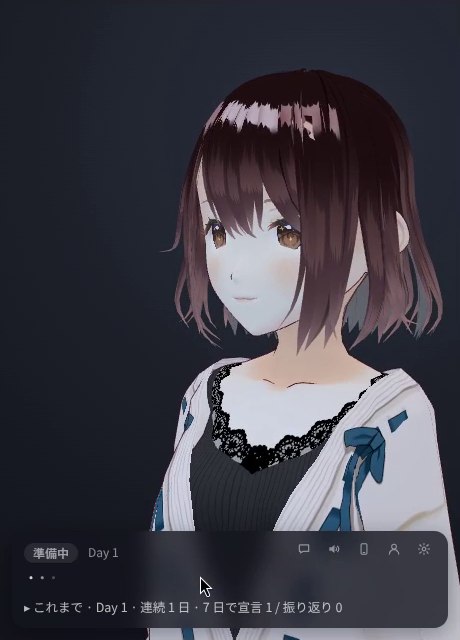
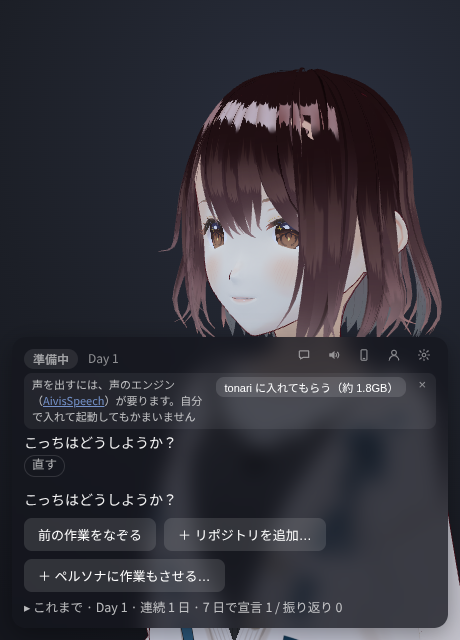
紹介ページを 0.8.0 に合わせる

Changed region(s): [[0.0304, 0.1562, 1.0, 0.9375], [0.8826, 0.2812, 0.913, 0.3125], [0.6087, 0.2812, 0.6391, 0.3125]]

diff --git a/index.html b/index.html
@@ -4,7 +4,7 @@
 <meta charset="utf-8">
 <meta name="viewport" content="width=device-width, initial-scale=1">
 <title>tonari - 隣の席で AI が作業する集中アプリ</title>
-<meta name="description" content="隣の席で AI が作業している、集中のためのデスクトップアプリ。画面の隅でペルソナが自分の作業をし、25 分ごとに「そっちどう？」と声をかけます。14 日間無料、その後は月額 800 円。macOS・Windows・Linux。画面もキー入力も見ません。">
+<meta name="description" content="隣の席で AI が作業している、集中のためのデスクトップアプリ。画面の隅でペルソナが自分の作業をし、休憩はあなたのタイミングで取れます。14 日間無料、その後は月額 800 円。macOS・Windows・Linux。画面もキー入力も見ません。">
 <meta property="og:title" content="tonari">
 <meta property="og:site_name" content="tonari">
 <meta property="og:locale" content="ja_JP">
@@ -37,7 +37,7 @@
 <section class="hero" aria-labelledby="hero-title">
   <div class="hero-text">
     <h1 id="hero-title"><span class="nw">隣の席で AI が作業している、</span><br><span class="nw">集中のための</span><span class="nw">デスクトップアプリ。</span></h1>
-    <p class="lead">一人だと手が止まりがちな人のためのアプリです。画面の隅で AI のキャラクター（ペルソナ）が自分のプロジェクトを進め、ときどき独り言を言います。その隣で自分の作業をして、25 分たつと休憩。「そっちどう？」と声がかかります。</p>
+    <p class="lead">一人だと手が止まりがちな人のためのアプリです。画面の隅で AI のキャラクター（ペルソナ）が自分のプロジェクトを進め、ときどき独り言を言います。その隣で自分の作業をして、休みたくなったら休憩。そのあいだはペルソナも手を止めます。</p>
     <p class="facts">入れるのは無料で、14 日間はそのまま試せます。続けて使うなら月額 800 円。アカウントは要りません。プログラマでなくても使えます。macOS（Apple シリコン）・Windows・Linux。画面もキー入力も見ません。</p>
     <div class="dl" id="dl">
       <a class="btn btn-primary" id="dl-main" href="#install">ダウンロード</a>
@@ -61,19 +61,19 @@
   <ol class="steps">
     <li>
       <h3>宣言する</h3>
-      <p>「そっちは今日なにやる？」に、今日やることを一言で答えます。</p>
+      <p>「そっちは今日なにやる？」に、今日やることを一言で答えます。作業時間（決めない・30 分〜2 時間）も選べます。</p>
     </li>
     <li>
       <h3>隣で作業が始まる</h3>
       <p>ペルソナが自分の作業を始めます。こちらも自分の作業をします。ペルソナは読んだり書いたり試したりしながら、ときどき独り言を言います。</p>
     </li>
     <li>
-      <h3>区切りで休憩</h3>
-      <p>25 分で休憩に入ります。休憩中は、入力欄からペルソナと短く話せます。休憩が終わると、また作業に戻ります。長さは設定で変えられます。</p>
+      <h3>好きなときに休憩</h3>
+      <p>休みたくなったら「休憩する」を押します。ペルソナも手を止め、入力欄から短く話せます。「再開する」か、席を離れて戻ってくると作業に戻ります。25 分ごとに決まった長さで休みたいなら、始めるときにポモドーロを選びます。</p>
     </li>
     <li>
-      <h3>振り返る</h3>
-      <p>終わるときに「どこまでいった？」と聞かれます。宣言どおりに進んだかと、集中の度合いをボタンで答えます。窓の × で終えるときも、締めの一言のあとに終わりの画面が出ます。「閉じる」でアプリを終了します。</p>
+      <h3>振り返って、少し雑談</h3>
+      <p>作業時間が来るか「ここで終わる」を押すと、「どこまでいった？」と聞かれます。宣言どおりに進んだかと、集中の度合いをボタンで答えます。そのあとは雑談の時間で、「おしまい」を押すまでペルソナと話せます。窓の × で終えるときも、締めの一言のあとに終わりの画面が出ます。「閉じる」でアプリを終了します。</p>
     </li>
   </ol>
 </section>
@@ -89,8 +89,8 @@
         <dd>ペルソナが自分の作業場所で、自分のアプリを毎日少しずつ作ります。最初は読書記録アプリ「ほんだな」です。</dd>
       </div>
       <div>
-        <dt>録画を流す</dt>
-        <dd>前にした作業の記録（出来事とその間隔）を、そのとおりに流します。作業の分の AI は動かないので、費用は独り言の分だけです。独り言は前にしたこととして話し、聞かれれば記録の再生だと答えます。新しく作ったペルソナには作り手が前に収録した「ほんだな」の録画が入っていて、AI を入れなくても初日から流せます。</dd>
+        <dt>前の作業をなぞる</dt>
+        <dd>前にした作業の記録（出来事とその間隔）を、そのとおりになぞります。作業の分の AI は動かないので、費用は独り言の分だけです。独り言は前にしたこととして話し、聞かれれば記録の再生だと答えます。新しく作ったペルソナには作り手が前に収録した「ほんだな」の録画が入っていて、AI を入れなくても初日からなぞれます。</dd>
       </div>
       <div>
         <dt>見守る</dt>
@@ -103,7 +103,7 @@
     </dl>
   </div>
   <figure class="work-shot">
-    <img src="images/choose-work.png" width="460" height="640" alt="作業を選ぶ画面。ペルソナが「こっちはどうしようか？」と聞き、「自分のプロジェクト（ほんだな）を進める」「録画を流す」「リポジトリを追加」のボタンが並ぶ" loading="lazy">
+    <img src="images/choose-work.png" width="460" height="640" alt="作業を選ぶ画面。ペルソナが「こっちはどうしようか？」と聞き、「前の作業をなぞる」「＋ リポジトリを追加…」「＋ ペルソナに作業もさせる…」のボタンが並ぶ" loading="lazy">
   </figure>
 </section>
 
@@ -111,11 +111,12 @@
   <h2 id="needs-title">用意するものと費用</h2>
   <ul class="needs">
     <li><strong>月額プラン（14 日間は無料）。</strong>独り言と休憩の会話は tonari のサーバーで作ります。PC で初めて使った日から 14 日間は無料で、カードの登録も要りません。続けて使うなら月額 800 円（税込）で、tonari のパネルか設定の「続けて使う」から申し込みます。申し込まなくても、録画の再生と見守りはそのまま使え、独り言は決まった文になります。1 つの申し込みで PC 2 台まで使えます。解約はいつでもでき、払った期間の終わりまで使えます（<a href="tokushoho.html">特定商取引法に基づく表記</a>・<a href="terms.html">利用規約</a>）。</li>
-    <li><strong>考えるのに使う AI（任意）。</strong>入れなくても始められます。そのときは、独り言と休憩の会話を tonari のサーバーで作り（上の月額プラン）、ペルソナの作業は「録画を流す」か「見守る」になります。ペルソナに本当に作業もさせるなら、どちらかを入れます。
+    <li><strong>考えるのに使う AI（任意）。</strong>入れなくても始められます。そのときは、独り言と休憩の会話を tonari のサーバーで作り（上の月額プラン）、ペルソナの作業は「前の作業をなぞる」か「見守る」になります。ペルソナに本当に作業もさせるなら、作業の選択の「＋ ペルソナに作業もさせる…」から、どちらかを選びます。
       <ul class="needs-sub">
-        <li><strong>OpenCode。</strong>パネルの案内か、設定（歯車）の「作業に使う AI」で「tonari に入れてもらう」を押すと、tonari が <a href="https://opencode.ai/">OpenCode</a> を入れます（約 60MB）。無料のモデルがあります。無料のモデルは期間限定で、送った内容が提供元の学習に使われるものがあります。</li>
-        <li><strong>Anthropic の API キー。</strong>Claude を使います。独り言とペルソナの作業の分だけ、API の利用料を Anthropic に払います。目安は 2026 年 10 月の作者の手元の例で、独り言が 1 区切り（25 分）で数円、ペルソナが本当に自分のプロジェクトを進める分が 1 区切り数百円から千円ほどでした。モデルと作業量で大きく変わります。「見守る」は独り言の分だけです。設定の手順は <a href="https://github.com/cxxxr/tonari-releases#readme">README</a> にあります。</li>
+        <li><strong>OpenCode。</strong>設定（歯車）の「作業に使う AI」で「tonari に入れてもらう」を押すと、tonari が <a href="https://opencode.ai/">OpenCode</a> を入れます（約 60MB）。無料のモデルがあります。無料のモデルは期間限定で、送った内容が提供元の学習に使われるものがあります。</li>
+        <li><strong>Codex。</strong><a href="https://developers.openai.com/codex/cli/">Codex CLI</a> を入れて <code>codex login</code> しておき、「作業に使う AI」で選びます。使うのはその Codex の利用枠か API の費用です。</li>
       </ul>
+      独り言と休憩の会話を Anthropic の API キーで作ることもできます。使った分の API の利用料を Anthropic に払います（目安は 2026 年 10 月の作者の手元の例で、1 区切り（25 分）数円）。設定の手順は <a href="https://github.com/cxxxr/tonari-releases#readme">README</a> にあります。
     </li>
     <li><strong>声（任意）。</strong>ペルソナは <a href="https://aivis-project.com/">AivisSpeech</a> の声で話します。初めて起動したときの「はじめに、声の準備」で「声を入れる」を押すと、tonari が入れます（約 1.8GB）。入れなければ字幕だけになります。</li>
     <li><strong>Node.js。</strong>ペルソナが自分のプロジェクトで使います。初めて始めるときに tonari が落とします（約 50MB。自分で入れている Node.js とは別に置きます）。</li>
@@ -148,7 +149,7 @@
   <p>隣にいるためのアプリなので、あなたを見張るものにはしていません。</p>
   <ul class="rules">
     <li>画面の内容もキー入力の中身も見ません。カメラもマイクも使いません。あなたの様子として使うのは「最後に入力してから何秒たったか」だけです。</li>
-    <li>AI に送るのは、あなたが書いた今日の宣言と休憩中の返事、そしてペルソナ自身の作業の出来事（読んだファイルの名前や結果の要約）です。あなたの画面とキー入力は送りません。「手伝う」を選んだときは、任せたリポジトリの複製のファイルを AI が読むので、その中身も AI の提供元に送られます。「見守る」では、Claude が書いたコミットの件名とブランチ名を送ります。OpenCode も API キーも使わないときは、今日の宣言と休憩中の返事、ペルソナの作業の出来事を tonari のサーバーに送ります。サーバーはそれを AI の提供元（AWS の Bedrock）に渡し、独り言と休憩の会話を作ります。</li>
+    <li>AI に送るのは、あなたが書いた今日の宣言と、休憩中と雑談での返事、あなたの名前と呼び方、そしてペルソナ自身の作業の出来事（読んだファイルの名前や結果の要約）です。あなたの画面とキー入力は送りません。「手伝う」を選んだときは、任せたリポジトリの複製のファイルを AI が読むので、その中身も AI の提供元に送られます。「見守る」では、Claude が書いたコミットの件名とブランチ名を送ります。OpenCode も API キーも使わないとき（Codex を使うときも）は、独り言と会話の材料（今日の宣言、休憩中と雑談での返事、名前と呼び方、ペルソナの作業の出来事）を tonari のサーバーに送ります。サーバーはそれを AI の提供元（AWS の Bedrock）に渡し、独り言と休憩の会話を作ります。</li>
     <li>ペルソナが書き込むのは自分の作業場所だけです。打つコマンドは中身を見て止めていますが、すべては防げません。</li>
     <li>起動したときに 1 日 1 回、新しい版があるかを GitHub に聞きます。あなたを見分けるものは送りません。設定のファイル（<code>user.yaml</code>）で切れます。</li>
     <li>記録（宣言、集中の度合い、独り言）はあなたの PC の中にだけ残ります。tonari のサーバーは、送られた本文と IP アドレスを残しません。残すのは、サーバーが発行する無記名のトークン（のハッシュ）、日ごとの回数、送信元を見分けるために IP アドレスから作った値です。月額プランを申し込んだ人については、それに加えて、トークン（のハッシュ）と Stripe の申し込みの番号・顧客の番号・状態を結んで残します。名前・メールアドレス・カードの情報は Stripe が持ち、tonari のサーバーには残しません。</li>
@@ -169,7 +170,7 @@
     </div>
     <div>
       <dt>何がどこに送られますか？</dt>
-      <dd>上の<a href="#privacy">「見ないもの、送らないもの」</a>のとおりです。送り先は、選んだ AI の提供元（Anthropic か、OpenCode で選んだモデルの提供元）です。AI を入れていないときは tonari のサーバーで、サーバーから AWS の Bedrock に渡ります。月額プランの支払いは Stripe が受けます。ほかに、新しい版があるかを GitHub に 1 日 1 回聞きます。</dd>
+      <dd>上の<a href="#privacy">「見ないもの、送らないもの」</a>のとおりです。送り先は、選んだ AI の提供元（Anthropic か、OpenCode で選んだモデルの提供元か、Codex の OpenAI）です。OpenCode も API キーも使わないとき（Codex を使うときも）は、独り言と会話を tonari のサーバーで作り、サーバーから AWS の Bedrock に渡ります。月額プランの支払いは Stripe が受けます。ほかに、新しい版があるかを GitHub に 1 日 1 回聞きます。</dd>
     </div>
     <div>
       <dt>ペルソナは本当に AI ですか？</dt>
@@ -177,7 +178,7 @@
     </div>
     <div>
       <dt>オフラインで動きますか？</dt>
-      <dd>いいえ。独り言に、AI の提供元か tonari のサーバーへの通信が要ります（届かないときは決まった文で代わりに話します）。ペルソナの作業も、録画を流すとき以外は AI の提供元への通信が要ります。声の合成だけは手元の PC で行います。</dd>
+      <dd>いいえ。独り言に、AI の提供元か tonari のサーバーへの通信が要ります（届かないときは決まった文で代わりに話します）。ペルソナの作業も、前の作業をなぞるとき以外は AI の提供元への通信が要ります。声の合成だけは手元の PC で行います。</dd>
     </div>
     <div>
       <dt>ペルソナが自分のファイルを触ることはありますか？</dt>
@@ -199,7 +200,7 @@
 <footer class="foot">
   <dl class="meta">
     <div><dt>作者</dt><dd><a href="https://github.com/cxxxr">cxxxr</a>。一人の部屋だと手が止まるので、隣で誰かが作業している状態を自分の机に作りました。</dd></div>
-    <div><dt>種別</dt><dd>デスクトップアプリ。入れるのは無料で、月額プランは 14 日間無料。このページは v0.7.0 の時点の説明で、費用や用意するものは版が上がると変わることがあります。<span id="meta-version">最新の版は <a href="https://github.com/cxxxr/tonari-releases/releases/latest">Releases</a> を見てください。</span></dd></div>
+    <div><dt>種別</dt><dd>デスクトップアプリ。入れるのは無料で、月額プランは 14 日間無料。このページは v0.8.0 の時点の説明で、費用や用意するものは版が上がると変わることがあります。<span id="meta-version">最新の版は <a href="https://github.com/cxxxr/tonari-releases/releases/latest">Releases</a> を見てください。</span></dd></div>
     <div><dt>アバター</dt><dd>既定のアバターは VRoid Hub で配布されているモデルで、再配布・改変・商用利用が許されていて、クレジットの表記は要りません。付属のサンプルのアバターは、pixiv Inc. の VRM 1.0 のサンプルモデル（(c) 2022 pixiv Inc.、<a href="https://vrm.dev/licenses/1.0/">VRM Public License 1.0</a>）です。自分の VRM に替えられます。</dd></div>
     <div><dt>声</dt><dd>既定の声は AivisSpeech の凛音エルです。声のモデルの利用規約は、AivisHub のモデルのページで確認してください。</dd></div>
     <div><dt>このページ</dt><dd>最新の版の番号とファイルの場所を GitHub から取ります。それ以外に外へ送るものはなく、計測もしていません。</dd></div>
